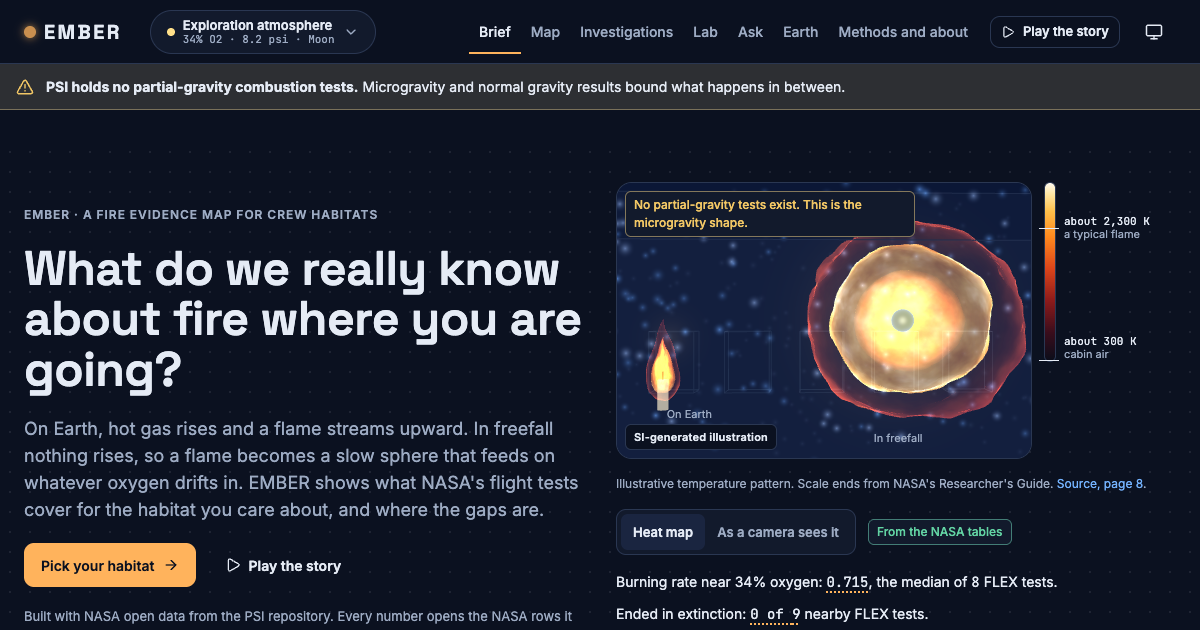
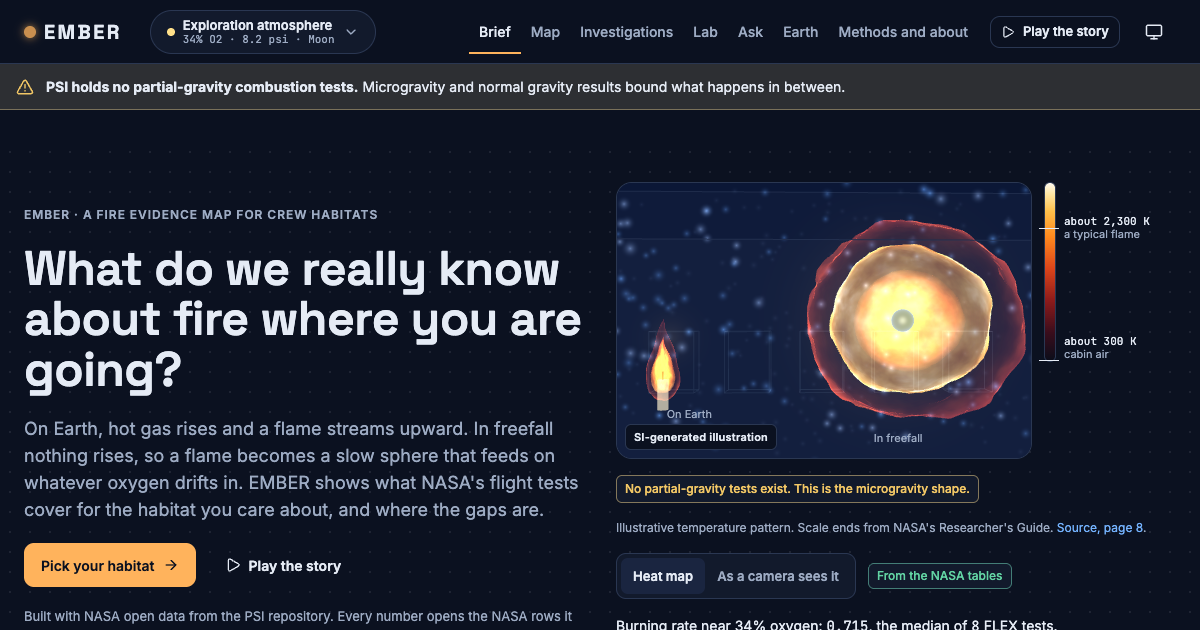
fix(fireball): move the gravity note under the stage and refresh the preview image

diff --git a/src/components/FireballStage.tsx b/src/components/FireballStage.tsx
@@ -257,10 +257,10 @@ export function FireballStage({ droplet = null, compact = false, showEarth = tru
               <Play size={14} aria-hidden="true" /> Play
             </button>
           ) : null}
-          {params.gravityBadge ? <span className="chip chip-warn absolute left-2 top-2 max-w-[70%] whitespace-normal py-1">{params.gravityBadge}</span> : null}
         </div>
         <TemperatureScale params={params} />
       </div>
+      {params.gravityBadge ? <p className="chip chip-warn self-start whitespace-normal py-1">{params.gravityBadge}</p> : null}
       <p className="text-[12px] text-muted">
         {SCALE_NOTE}{' '}
         <a href="https://www.nasa.gov/missions/station/a-researchers-guide-to-combustion-science/" target="_blank" rel="noreferrer">
